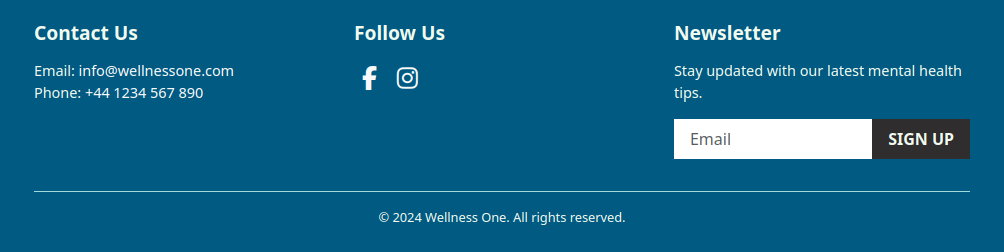
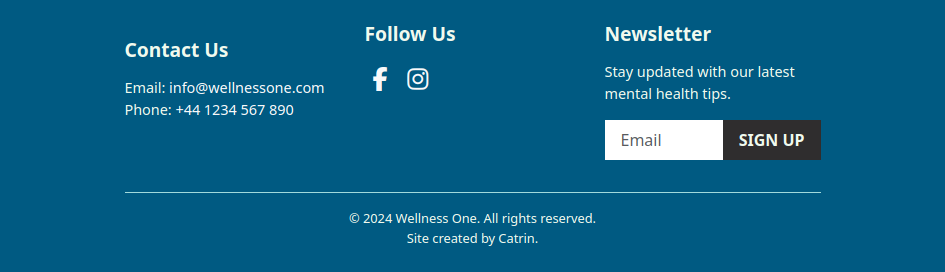
Refactor CSS styles for improved consistency; update HTML links for navigation

diff --git a/index.html b/index.html
@@ -21,12 +21,12 @@
     <nav class="navbar navbar-expand-lg fixed-top">
         <div class="container-fluid">
 
-            <a class="navbar-brand d-none d-sm-block" href="/">
+            <a class="navbar-brand d-none d-sm-block" href="#">
                 <img src="assets/images/nav-logo.svg" width="50" height="50" class="d-inline-block align-top"
                     alt="Wellness One logo">
                 Wellness One
             </a>
-            <a class="navbar-brand d-block d-sm-none" href="/">
+            <a class="navbar-brand d-block d-sm-none" href="#">
                 <img src="assets/images/nav-logo.svg" width="50" height="50" class="d-inline-block align-top"
                     alt="Wellness One logo">
             </a>
@@ -152,7 +152,7 @@
     <section id="resources" class="py-5">
         <div class="container">
             <h2 class="text-center mb-4">Resources</h2>
-            <p class="text-center mb-5">
+            <p class="text-center mb-4">
                 Here are some trusted organisations and helplines you can contact for more help and support.
             </p>
             <div class="row">
@@ -190,7 +190,7 @@
                 </div>
             </div>
             <!-- Emergency Card -->
-            <div class="emergency-card mt-5 p-4 text-white">
+            <div class="emergency-card mt-4 p-4 text-white">
                 <h4><strong>If it's an emergency or you need urgent help</strong></h4>
                 <ul class="mb-3">
                     <li>If you or someone else is in danger, call <a href="tel:999"><strong>999</strong></a> or go to

diff --git a/assets/css/style.css b/assets/css/style.css
@@ -20,7 +20,6 @@ body {
     background-image: url('../images/hero.png');
     background-size: cover;
     background-position: center;
-    
     height: 100vh;
     color: white;
     display: flex;
@@ -140,13 +139,11 @@ body {
 }
 
 #stress-management h2 {
-    font-size: 20px;
     font-weight: bold;
     color: var(--secondary-color);
 }
 
 #stress-management p {
-    font-size: 16px;
     line-height: 1.6;
     margin-bottom: 20px;
 }
@@ -162,7 +159,6 @@ body {
     align-items: center;
     gap: 10px;
     margin-bottom: 15px;
-    font-size: 16px;
     line-height: 1.5;
     background-color: var(--background-color); 
     padding: 10px 15px;
@@ -197,7 +193,6 @@ body {
 }
 
 #resources h2 {
-    font-size: 24px;
     font-weight: bold;
     color: var(--secondary-color);
 }
@@ -271,7 +266,6 @@ body {
 }
 
 .footer h5 {
-    font-size: 1.2rem;
     font-weight: bold;
     margin-bottom: 1rem;
 }
@@ -321,7 +315,7 @@ body {
 .footer-bottom {
     border-top: 1px solid var(--primary-color);
     padding-top: 1rem;
-    font-size: 0.8rem;
+    font-size: 1rem;
 }
 
 .footer-bottom p {
@@ -329,7 +323,7 @@ body {
 }
 
 .footer-bottom a {
-    font-size: 0.8rem;
+    font-size: 1rem;
 }
 
 /* Mobile Responsiveness */
